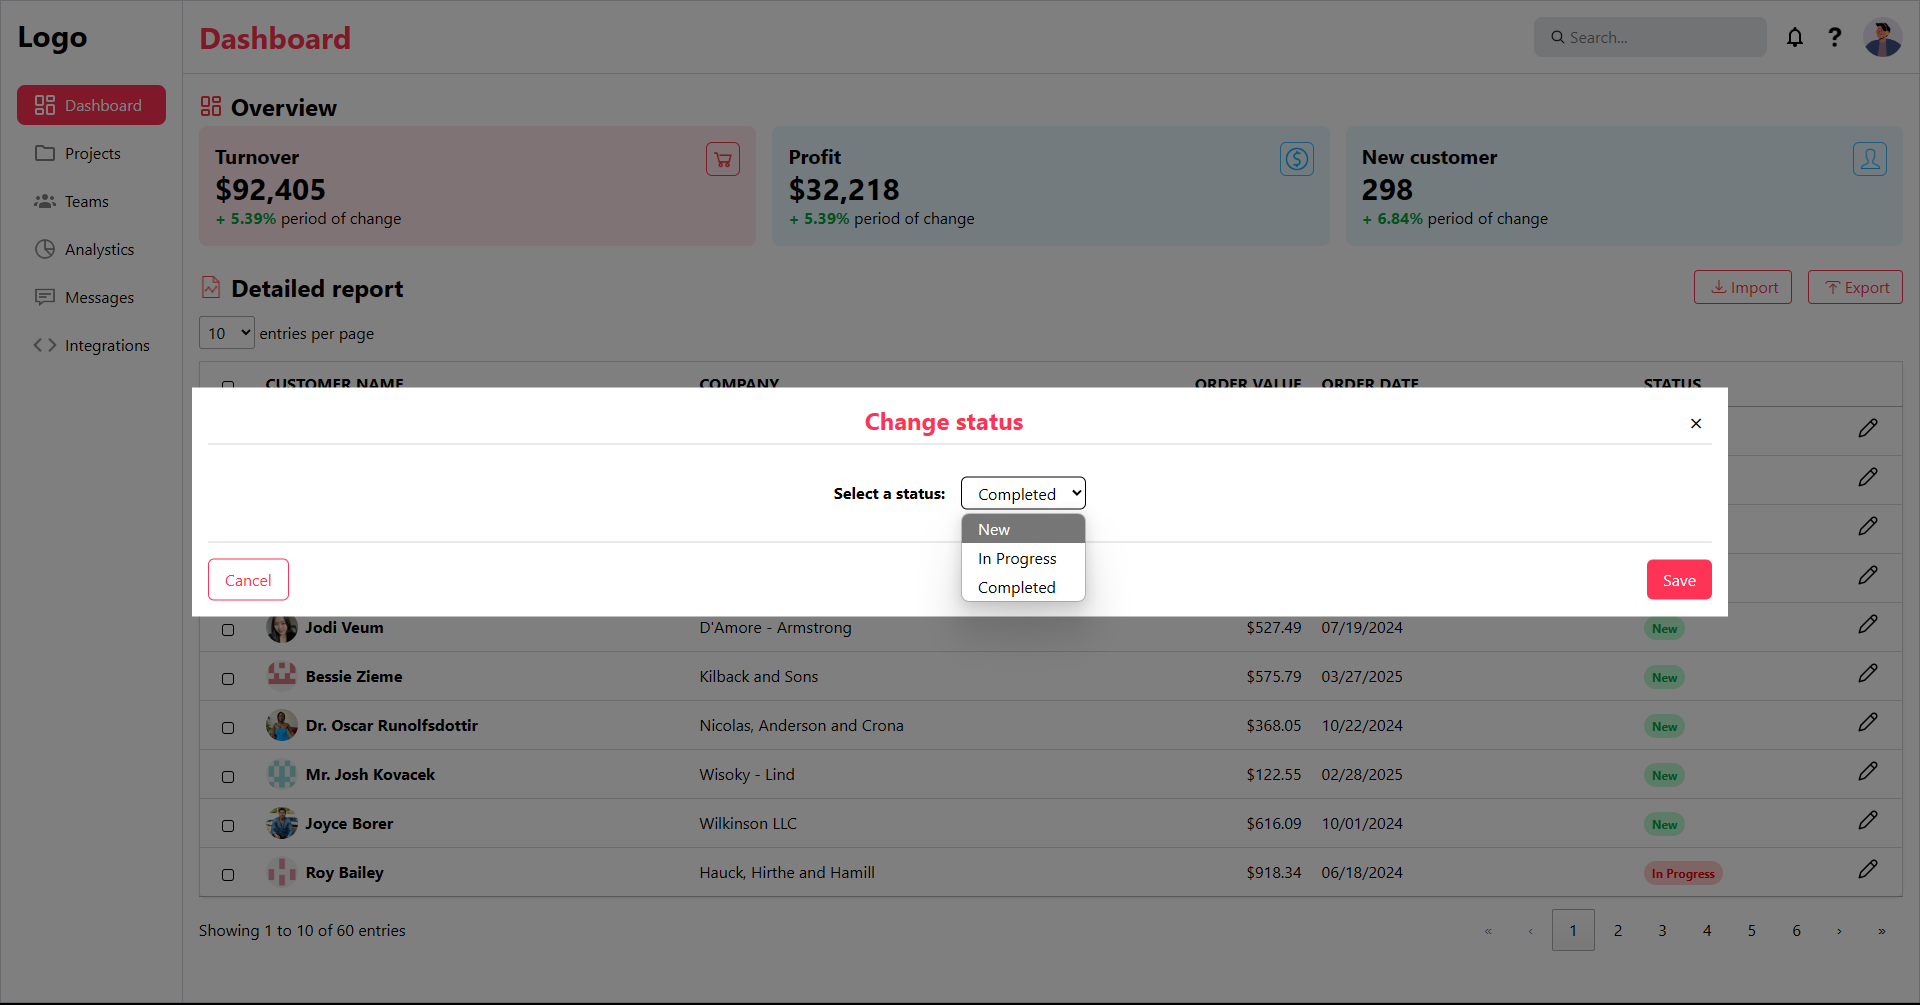
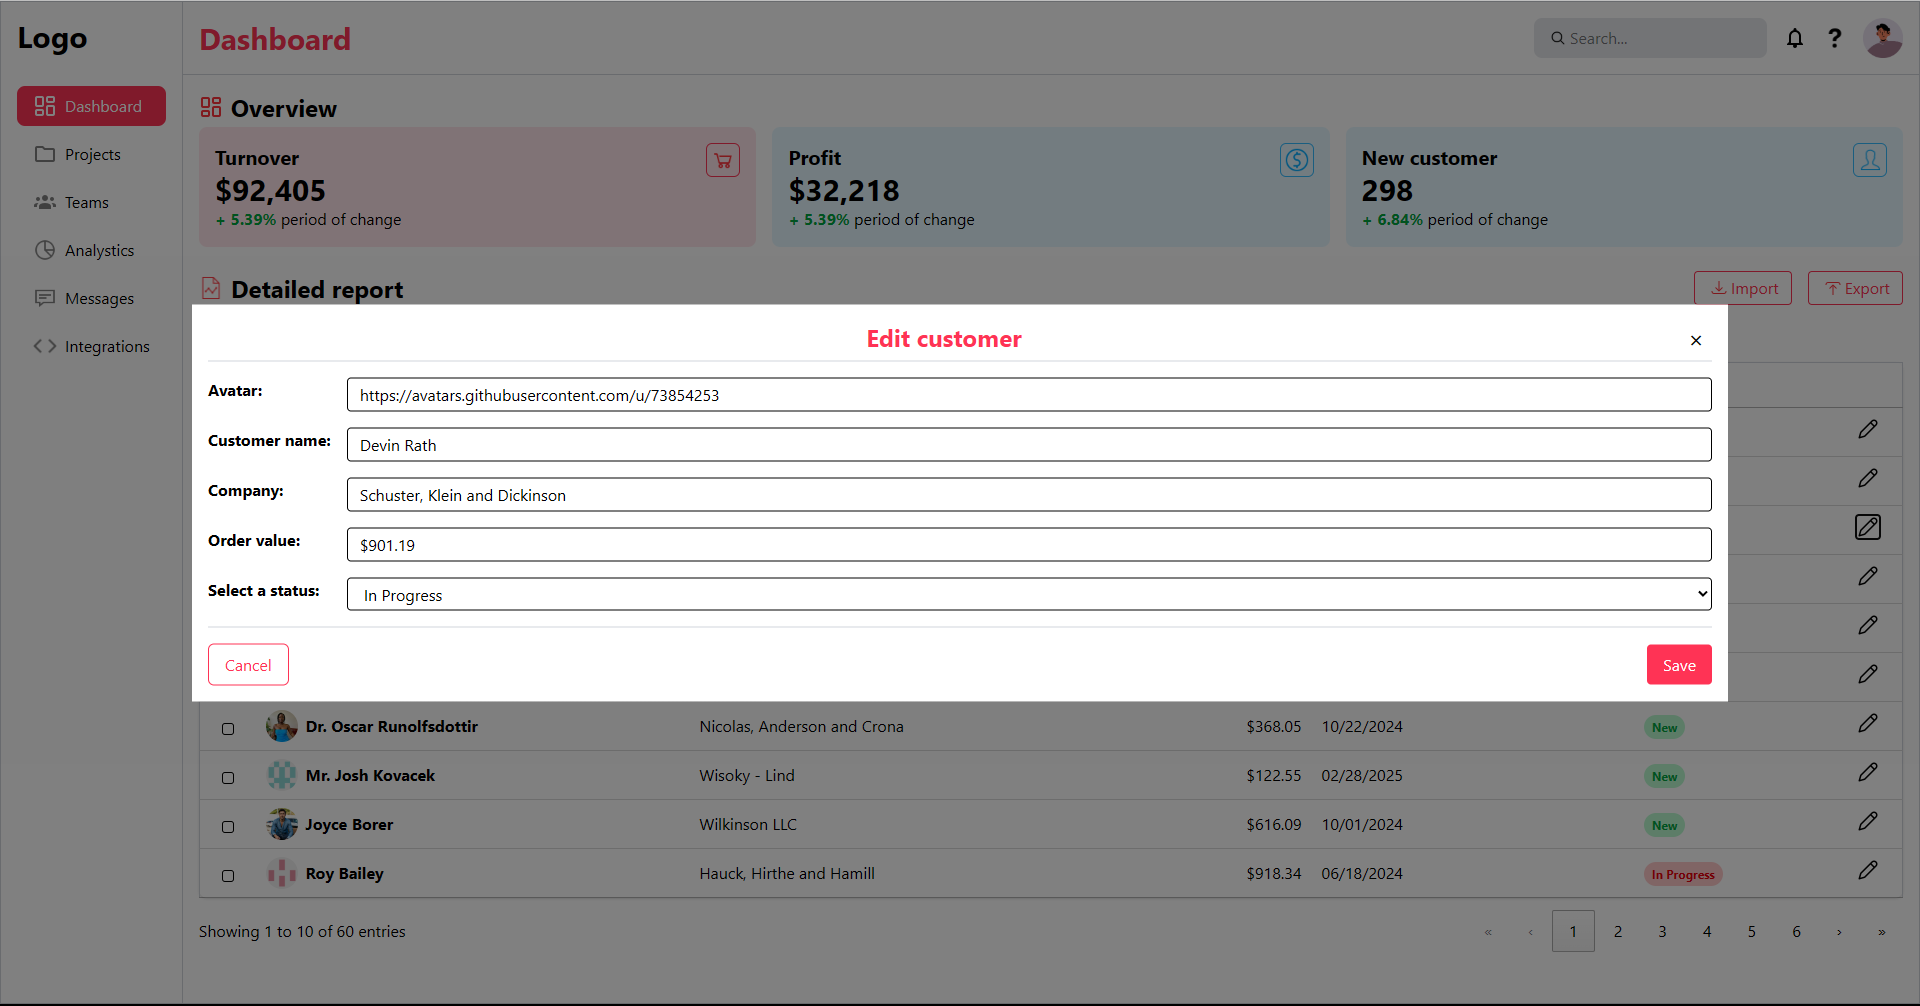
Hoàn thành Connect Modal (API get, put)

diff --git a/src/components/Dialog.jsx b/src/components/Dialog.jsx
@@ -1,0 +1,114 @@
+import { useEffect, useState } from "react";
+
+function Dialog({ type, open, onSave, onClose }) {
+  const [data, setData] = useState({
+    avatar: "",
+    customerName: "",
+    company: "",
+    orderValue: "",
+    orderDate: "",
+    status: "",
+  });
+
+  useEffect(() => {
+    open && setData(open);
+  }, [open]);
+
+  const handleChange = (e) => {
+    const { id, value } = e.target;
+    setData((prevData) => ({ ...prevData, [id]: value }));
+  };
+
+  return (
+    <dialog className="fixed top-0 h-full w-full bg-black/50" open={open}>
+      <form
+        className="absolute top-[50%] left-[50%] container -translate-[50%] bg-white p-4"
+        method="dialog"
+        onSubmit={onClose}
+      >
+        <div className="flex items-center justify-between border-b border-gray-300 pb-2">
+          <h5 className="grow text-center text-2xl font-bold text-[var(--my-color-red)]">
+            {type === "add" ? "Add" : "Edit"} customer
+          </h5>
+          <button className="h-8F w-8 cursor-pointer text-center text-2xl">&times;</button>
+        </div>
+
+        <div className="mt-4 flex flex-col gap-4">
+          <div className="grid w-full grid-cols-[max-content_1fr] gap-4 self-center">
+            <label className="font-bold" htmlFor="avatar">
+              Avatar:
+            </label>
+            <input
+              className="rounded-sm border px-3 py-1"
+              type="text"
+              id="avatar"
+              value={data?.avatar}
+              onChange={handleChange}
+            />
+
+            <label className="font-bold" htmlFor="customerName">
+              Customer name:
+            </label>
+            <input
+              className="rounded-sm border px-3 py-1"
+              type="text"
+              id="customerName"
+              value={data?.customerName}
+              onChange={handleChange}
+            />
+
+            <label className="font-bold" htmlFor="company">
+              Company:
+            </label>
+            <input
+              className="rounded-sm border px-3 py-1"
+              type="text"
+              id="company"
+              value={data?.company}
+              onChange={handleChange}
+            />
+
+            <label className="font-bold" htmlFor="orderValue">
+              Order value:
+            </label>
+            <input
+              className="rounded-sm border px-3 py-1"
+              type="text"
+              id="orderValue"
+              value={data?.orderValue}
+              onChange={handleChange}
+            />
+
+            <label className="font-bold" htmlFor="status">
+              Select a status:
+            </label>
+            <select
+              className="rounded-sm border px-3 py-1"
+              id="status"
+              value={data?.status}
+              onChange={handleChange}
+            >
+              <option value="New">New</option>
+              <option value="In Progress">In Progress</option>
+              <option value="Completed">Completed</option>
+            </select>
+          </div>
+
+          <div className="flex items-center justify-between border-t border-gray-300 pt-4">
+            <button className="cursor-pointer rounded-md border border-[var(--my-color-red)] px-4 py-2 text-[var(--my-color-red)]">
+              Cancel
+            </button>
+            <button
+              className="cursor-pointer rounded-sm bg-[var(--my-color-red)] px-4 py-2 text-white"
+              onClick={() => onSave(data)}
+            >
+              {type === "add" ? "Add" : "Save"}
+            </button>
+          </div>
+        </div>
+      </form>
+    </dialog>
+  );
+}
+
+export default Dialog;

diff --git a/src/pages/DashboardPage.jsx b/src/pages/DashboardPage.jsx
@@ -5,7 +5,7 @@ import {
   OverviewCard,
   EditButton,
   SecondaryButton,
-  EditDialog,
+  Dialog,
 } from "../components";
 import DataTable from "datatables.net-react";
 import DataTablesCore from "datatables.net-dt";
@@ -23,8 +23,14 @@ export default function DashboardPage() {
     setEditing(item);
   };
 
-  const handleSave = (value) => {
-    setReports(reports.map((item) => (item.id === editing.id ? { ...item, status: value } : item)));
+  const handleSave = async (value) => {
+    setReports(reports.map((item) => (item.id === editing.id ? { ...value } : item)));
+    const url = `https://67ee8ffcc11d5ff4bf7a11b6.mockapi.io/reports/${editing.id}`;
+    await fetch(url, {
+      method: "PUT",
+      headers: { "Content-Type": "application/json" },
+      body: JSON.stringify(value),
+    });
   };
 
   const handleClose = () => setEditing(undefined);
@@ -155,7 +161,7 @@ export default function DashboardPage() {
         </thead>
       </DataTable>
 
-      <EditDialog open={editing} onSave={handleSave} onClose={handleClose} />
+      <Dialog type="edit" open={editing} onSave={handleSave} onClose={handleClose} />
     </div>
   );
 }

diff --git a/src/components/index.js b/src/components/index.js
@@ -1,8 +1,8 @@
 import AvatarWithName from "./AvatarWithName";
 import Badge from "./Badge";
 import EditButton from "./EditButton";
-import EditDialog from "./EditDialog";
+import Dialog from "./Dialog";
 import OverviewCard from "./OverviewCard";
 import SecondaryButton from "./SecondaryButton";
 
-export { AvatarWithName, Badge, EditButton, OverviewCard, SecondaryButton, EditDialog };
+export { AvatarWithName, Badge, EditButton, OverviewCard, SecondaryButton, Dialog };
